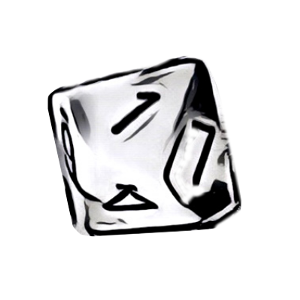
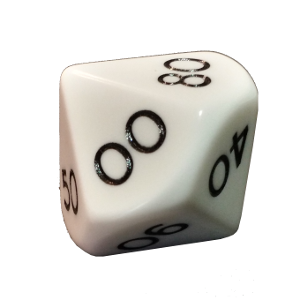
updated dice gfx; readme: running & bugs info

diff --git a/README.md b/README.md
@@ -1,8 +1,20 @@
 # pyvvt
 Python-based Virtual Tabletop Tool
 
+requires pony (DB) and paste (async HTTP)
 
 # Planned features/fixes
-- multithreading server + synchronous db-access
+- synchronous db-access
 - implement INSERT (clone selected to mouse pos), DEL (deleted selected)
+
+# How to run
+- start `main.py` on GM's local computer
+- enable portforwarding for port 8080 for this computer in your router
+- query your public IP, set up your game in the browsre
+- send the players-link to your players to join
+
+# Known bugs
+- random player timeouts using microsoft edge
+- instant player timeout using mobile devices
+- unable to move tokens using mobile devices
 
